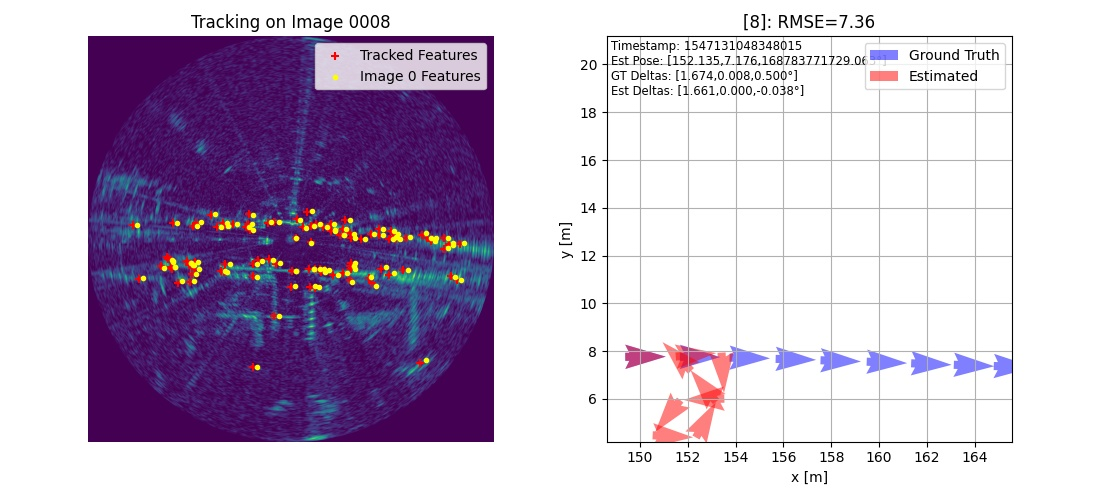
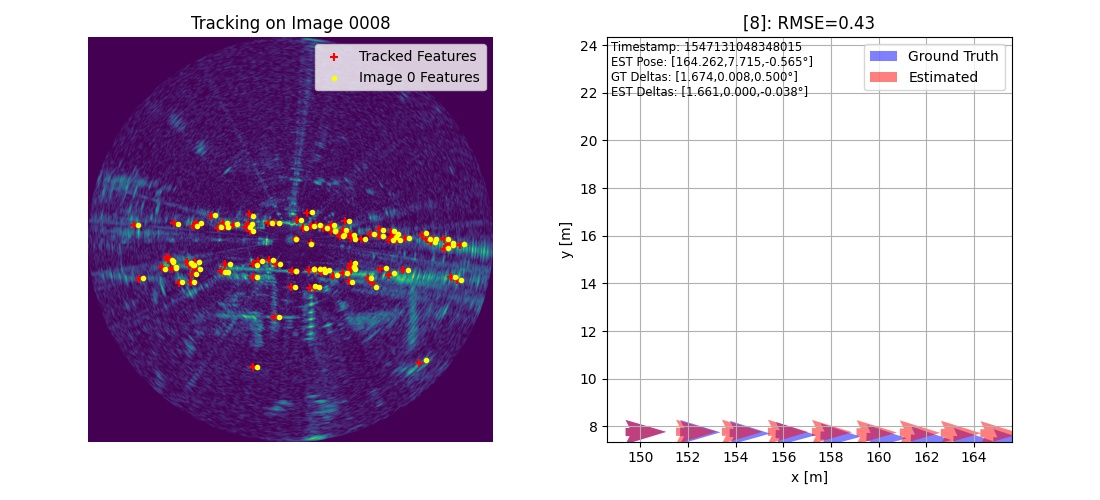
attempting to debug low dth at frame 2235

diff --git a/testTransformKLT2.py b/testTransformKLT2.py
@@ -1,0 +1,231 @@
+# raw data from full_seq_1 frame 2235
+# Raw Roam Info:
+# Timestamp: 1547121346397879
+# EST Pose: [1049.133,-304.933,49.911°]
+# GT Deltas: [0.438,0.096,5.212°]
+# EST Deltas: [1.315,0.000,0.858°]
+
+# As you can see the est deltas is much too low
+# :(
+
+import numpy as np
+from getTransformKLT import *
+from genFakeData import *
+
+srcCoord = np.array(
+    [
+        [832.0, 1186.0],
+        [946.0, 952.0],
+        [887.0, 1008.0],
+        [820.0, 1033.0],
+        [1177.0, 1358.0],
+        [554.0, 1061.0],
+        [796.0, 1149.0],
+        [1111.0, 1019.0],
+        [711.0, 1195.0],
+        [1318.0, 941.0],
+        [979.0, 948.0],
+        [1178.0, 906.0],
+        [1139.0, 930.0],
+        [1259.0, 793.0],
+        [869.0, 1170.0],
+        [1158.0, 820.0],
+        [1184.0, 1090.0],
+        [1162.0, 996.0],
+        [1195.0, 870.0],
+        [1076.0, 674.0],
+        [991.0, 1106.0],
+        [882.0, 1127.0],
+        [760.0, 1041.0],
+        [616.0, 1047.0],
+        [1500.0, 941.0],
+        [1117.0, 733.0],
+        [826.0, 1123.0],
+        [814.0, 901.0],
+        [1033.0, 1134.0],
+        [1429.0, 1625.0],
+        [766.0, 1109.0],
+        [624.0, 1240.0],
+        [880.0, 970.0],
+        [536.0, 1102.0],
+        [699.0, 1295.0],
+        [674.0, 1066.0],
+        [683.0, 1018.0],
+        [458.0, 1036.0],
+        [1330.0, 1425.0],
+        [1162.0, 1130.0],
+        [1475.0, 887.0],
+        [1224.0, 1596.0],
+        [1273.0, 1390.0],
+        [972.0, 168.0],
+        [1352.0, 1648.0],
+        [1149.0, 1244.0],
+        [1531.0, 1064.0],
+        [419.0, 1114.0],
+        [1215.0, 1998.0],
+        [494.0, 1060.0],
+        [1249.0, 1879.0],
+        [1081.0, 492.0],
+        [1239.0, 665.0],
+        [472.0, 1186.0],
+        [1190.0, 1557.0],
+        [1160.0, 1031.0],
+        [1231.0, 1646.0],
+        [164.0, 1243.0],
+        [768.0, 1255.0],
+        [1205.0, 1275.0],
+        [1004.0, 440.0],
+        [842.0, 959.0],
+        [178.0, 1344.0],
+        [1046.0, 413.0],
+        [1655.0, 896.0],
+        [1245.0, 1696.0],
+        [95.0, 1217.0],
+        [1461.0, 937.0],
+        [748.0, 1150.0],
+        [1420.0, 1752.0],
+        [1202.0, 1499.0],
+        [1259.0, 720.0],
+        [1316.0, 1080.0],
+        [1031.0, 1238.0],
+        [311.0, 1317.0],
+        [1121.0, 770.0],
+        [1186.0, 1415.0],
+        [658.0, 1209.0],
+        [1360.0, 493.0],
+        [1133.0, 1156.0],
+        [1129.0, 1095.0],
+        [714.0, 1012.0],
+        [953.0, 646.0],
+        [1038.0, 369.0],
+        [998.0, 179.0],
+        [579.0, 1242.0],
+        [1199.0, 1471.0],
+        [1216.0, 1322.0],
+        [1330.0, 1182.0],
+        [1258.0, 1355.0],
+        [354.0, 1237.0],
+        [282.0, 1148.0],
+        [1352.0, 1218.0],
+        [1357.0, 1060.0],
+        [1151.0, 626.0],
+    ]
+)
+
+targetCoord = np.array(
+    [
+        [841.305, 1198.7198],
+        [927.631, 959.0212],
+        [883.99225, 1017.3664],
+        [817.9802, 1048.8522],
+        [1201.3635, 1341.9391],
+        [555.1394, 1098.3268],
+        [805.24243, 1166.0364],
+        [1101.0247, 1001.0669],
+        [722.77527, 1218.2245],
+        [1301.3572, 916.526],
+        [966.2445, 951.17334],
+        [1163.7212, 891.9999],
+        [1127.1575, 920.8158],
+        [1232.826, 769.2345],
+        [877.7586, 1180.9314],
+        [1135.7284, 811.8884],
+        [1185.2078, 1075.5138],
+        [1155.4294, 981.7921],
+        [1177.9464, 851.7111],
+        [1044.851, 669.8555],
+        [997.3276, 1105.8422],
+        [889.4511, 1134.4858],
+        [758.55566, 1060.8076],
+        [615.8414, 1077.3485],
+        [1478.8575, 897.7042],
+        [1087.7397, 724.7428],
+        [835.89655, 1135.4297],
+        [796.4341, 917.0598],
+        [1037.1779, 1128.1162],
+        [1464.5718, 1595.6478],
+        [772.7179, 1126.6959],
+        [639.43396, 1271.5226],
+        [871.88635, 980.8919],
+        [541.77, 1141.411],
+        [710.08466, 1307.586],
+        [673.43414, 1092.8995],
+        [680.78253, 1044.3134],
+        [457.99792, 1082.3612],
+        [1358.5415, 1397.2504],
+        [1168.1372, 1117.7571],
+        [1450.1407, 851.1212],
+        [1266.3652, 1576.3496],
+        [1303.3948, 1368.235],
+        [893.2751, 173.98154],
+        [1391.208, 1619.9385],
+        [1163.7201, 1231.0295],
+        [1529.5299, 1025.3541],
+        [420.80362, 1152.5759],
+        [1293.5905, 1975.75],
+        [490.41705, 1094.5231],
+        [1314.297, 1855.6548],
+        [1034.655, 492.906],
+        [1199.2773, 645.4932],
+        [482.2822, 1227.3713],
+        [1225.7625, 1541.3878],
+        [1156.5476, 1016.4378],
+        [1278.5267, 1625.4044],
+        [178.56161, 1306.1583],
+        [780.8541, 1268.3405],
+        [1222.4808, 1259.4805],
+        [964.2754, 441.74496],
+        [835.3265, 972.153],
+        [204.53769, 1413.2614],
+        [991.83563, 411.2698],
+        [1650.6266, 834.4475],
+        [1298.1508, 1671.5724],
+        [108.93118, 1291.5918],
+        [1439.2063, 899.58514],
+        [756.3671, 1169.9126],
+        [1479.6486, 1712.5007],
+        [1238.5244, 1480.4994],
+        [1224.6327, 695.318],
+        [1316.0406, 1055.7354],
+        [1046.162, 1234.4912],
+        [331.9895, 1367.8849],
+        [1095.4545, 761.68115],
+        [1215.309, 1397.6898],
+        [671.8784, 1237.644],
+        [1298.4594, 463.35223],
+        [1139.2153, 1145.7471],
+        [1132.0254, 1083.1497],
+        [710.00037, 1035.7677],
+        [917.9624, 651.2084],
+        [977.56433, 368.5328],
+        [924.2994, 182.4247],
+        [590.2328, 1265.0858],
+        [1234.2955, 1451.9825],
+        [1236.1349, 1304.6243],
+        [1339.1342, 1154.5645],
+        [1281.9696, 1333.1907],
+        [371.91956, 1293.5822],
+        [291.38516, 1206.5095],
+        [1363.0586, 1191.5559],
+        [1355.1196, 1031.3917],
+        [1111.2416, 614.707],
+    ]
+)
+dx,dy,dth = 0.438,0.096,np.deg2rad(5.212)
+R_gt = np.array([
+    [np.cos(dth),-np.sin(dth)],
+    [np.sin(dth),np.cos(dth)],
+])
+h_gt = np.array([[dx],[dy]]) / RANGE_RESOLUTION_CART_M
+
+R_fit, h_fit = calculateTransformDxDth(srcCoord, targetCoord)
+
+theta_fit = np.arctan2(R_fit[1, 0], R_fit[0, 0]) * 180 / np.pi
+print(f"Fitted Transform:\ntheta:\n{theta_fit}\nh:\n{h_fit}")
+
+# yikers
+# Visualize
+srcCoord2 = (R_fit @ targetCoord.T + h_fit).T
+srcCoord3 = (R_gt @ targetCoord.T + h_gt).T
+plotFakeFeatures(srcCoord3, targetCoord, srcCoord2,
+                    title_append="", alpha=0.5, clear=False, show=True)

diff --git a/getTransformKLT.py b/getTransformKLT.py
@@ -161,6 +161,39 @@ def calculateTransformSVD(
 
     return R, h.T
 
+def calculateTransformDth(
+        srcCoords: np.ndarray,
+        targetCoords: np.ndarray) -> tuple[np.ndarray, np.ndarray]:
+    assert len(srcCoords) == len(targetCoords)
+    R = np.zeros((2, 2))
+    h = np.zeros((2, 1))
+
+    N = len(srcCoords)
+
+    # Form A and b
+    A = np.empty((N * 2, 1))
+    b = np.empty((N * 2, 1))
+
+    # TODO: Please make this numpy vectorized
+    for i in range(N):
+        src = srcCoords[i]
+        target = targetCoords[i]
+        # Convention: x = [lambda, hx]
+        A[2 * i:2 * i + 2, :] = np.array([[-src[1]], [src[0]]])
+        b[2 * i:2 * i + 2, 0] = np.array([src[0] - target[0], src[1] - target[1]])
+
+    # Negate b because we want to go from Ax + b to min|| Ax - b ||
+    x = np.linalg.inv(A.T @ A) @ A.T @ b
+
+    # Approximate least squares solution
+    theta = float(x[0])
+    cth = np.cos(theta)
+    sth = np.sin(theta)
+    R = np.array([[cth, -sth], [sth, cth]])
+    h = np.array([[0], [0]])
+
+    return R, h
+
 def calculateTransformDxDth(
         srcCoords: np.ndarray,
         targetCoords: np.ndarray) -> tuple[np.ndarray, np.ndarray]:
@@ -190,9 +223,9 @@ def calculateTransformDxDth(
     cth = np.cos(theta)
     sth = np.sin(theta)
     R = np.array([[cth, -sth], [sth, cth]])
+    h = np.array([[*x[1]], [0]])
     print(f"Pixel displacement: {flatten(x)}")
 
-    h = np.array([[*x[1]], [0]])
     return R, h
 
 def calculateTransform(

diff --git a/RawROAMSystem.py b/RawROAMSystem.py
@@ -208,13 +208,13 @@ class RawROAMSystem():
         gt_deltas[2] = np.rad2deg(gt_deltas[2])
         est_deltas = convertRandHtoDeltas(R, h)
         est_deltas[2] = np.rad2deg(est_deltas[2])
-        est_pose = estTraj.poses[-1]
+        est_pose = estTraj.poses[-1].copy()
         est_pose[2] = np.rad2deg(est_pose[2])
 
         info = f'Timestamp: {currTimestamp}\n'
-        info += f'Est Pose: {f_arr(estTraj.poses[-1], th_deg=True)}\n'
+        info += f'EST Pose: {f_arr(est_pose, th_deg=True)}\n'
         info += f'GT Deltas: {f_arr(gt_deltas, th_deg=True)}\n'
-        info += f'Est Deltas: {f_arr(est_deltas, th_deg=True)}'
+        info += f'EST Deltas: {f_arr(est_deltas, th_deg=True)}'
         print(info)
 
         # Plot Trajectories
@@ -243,7 +243,7 @@ if __name__ == "__main__":
     system = RawROAMSystem(datasetName, hasGroundTruth=True)
 
     try:
-        system.run()
+        system.run(startImgInd, endImgInd)
     except KeyboardInterrupt:
         exit()
         pass

diff --git a/testTransform.py b/testTransform.py
@@ -1,4 +1,4 @@
-from getTransformKLT import calculateTransformSVD, calculateTransform, calculateTransformDxDth
+from getTransformKLT import *
 from genFakeData import *
 
 if __name__ == "__main__":
